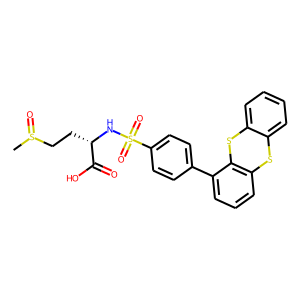
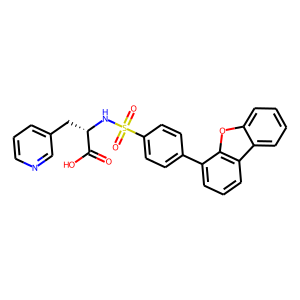
Chosen molecule is displayed in EndGame window

Changed region(s): [[0.03, 0.3, 0.96, 0.69]]

diff --git a/game_scripts/end_game.py b/game_scripts/end_game.py
@@ -4,8 +4,8 @@ from game_scripts.combine import MolChoose
 from game_scripts.descriptors import get_descriptors
 from game_scripts.filters import compound_check
 from rdkit import Chem
+from rdkit.Chem.Draw import rdMolDraw2D
 import global_vars
-
 
 """
 Window for ending the game - displays a comparison of chosen molecule vs final target molecule
@@ -16,21 +16,70 @@ SCREEN_WIDTH = 1000
 SCREEN_HEIGHT = 650
 SCREEN_TITLE = "The Final Selection"
 
+CARD_WIDTH = 250
+CARD_HEIGHT = 400
+MAT_WIDTH = 250
+MAT_HEIGHT = 650
+
+
 class EndGame(arcade.View):
     """
     Main class for endgame view
     """
 
-    def __init__(self, feedback_view = None):
+    def __init__(self, analysis_view = None):
         #call the parent class and set up the window
         super().__init__()
-        self.feedback_view = feedback_view
+        self.analysis_view = analysis_view
+        self.button_list = None
+        self.card_list = None
+        self.mat_list = None
+        self.chosen_sprite = None
 
         # stores the path to the font file
         self.font = os.path.join('fonts', 'arial.ttf')
 
         # sets the background color
-        arcade.set_background_color(arcade.color.OXFORD_BLUE)
+        arcade.set_background_color(arcade.color.WHITE)
+
+        self.setup()
+
+    def setup(self):
+        """
+        This function sets up the view
+        """
+
+         # create end button
+        self.button_list = arcade.SpriteList()
+        end_button = arcade.Sprite(f'Images/button_pngs/end_game_blue.png', 0.5)
+        end_button.position = SCREEN_WIDTH/2 , 50
+        end_button.name = 'end'
+        self.button_list.append(end_button)
+
+        #Create the placeholders for the two 'card mats'
+        self.mat_list = arcade.SpriteList()
+
+        left_mat = arcade.SpriteSolidColor(CARD_WIDTH, CARD_HEIGHT, arcade.color.LIGHT_BLUE)
+        left_mat.position = 350, 400
+        self.mat_list.append(left_mat)
+
+        right_mat = arcade.SpriteSolidColor(CARD_WIDTH, CARD_HEIGHT, arcade.color.LIGHT_BLUE)
+        right_mat.position = 650, 400
+        self.mat_list.append(right_mat)
+
+        #Generate image of the selected final molecule
+        self.card_list = arcade.SpriteList()
+        mol_info = MolChoose(self.analysis_view.mol_choice[0], self.analysis_view.mol_choice[1], DataSource=os.path.join('data', 'r_group_decomp.csv')).reset_index(drop=True)
+        mol = Chem.MolFromSmiles(mol_info.at[0, 'mol'])
+        d = rdMolDraw2D.MolDraw2DCairo(250, 200)
+        d.drawOptions().addStereoAnnotation = True
+        d.drawOptions().clearBackground = False
+        d.DrawMolecule(mol)
+        d.FinishDrawing()
+        d.WriteDrawingText('Images/game_loop_images/final_mol.png')
+        self.chosen_sprite = arcade.Sprite('Images/game_loop_images/final_mol.png')
+        self.chosen_sprite.position = (350, 520)
+        self.card_list.append(self.chosen_sprite)
 
     def on_draw(self):
         """Render the screen"""
@@ -38,13 +87,25 @@ class EndGame(arcade.View):
         # clear the screen to the background colour
         arcade.start_render()
 
-        # draw the chosen molecule section
-        arcade.draw_rectangle_filled((SCREEN_WIDTH - (SCREEN_WIDTH / 6)),
-                                     (SCREEN_HEIGHT - (4 / 5 * SCREEN_HEIGHT) / 2),
-                                     (SCREEN_WIDTH / 3),
-                                     (4 / 5 * SCREEN_HEIGHT),
-                                     color=arcade.color.BLACK)
+        self.button_list.draw()
 
+        #draw the 'card mats'
+        self.mat_list.draw()
+        self.card_list.draw()
+
+    def on_mouse_press(self, x, y, button, modifiers):
+        """
+        Called when the user presses a mouse button. Used for determining what happens
+        when the user clicks on a button
+        """
+
+        #Checks to see if the End button has been pressed
+        clicked = arcade.get_sprites_at_point((x,y), self.button_list)
+        if len(clicked) > 0:
+            if clicked[0].name == 'end':
+                self.window.close()
+        
+        
 
 def main():
     """ Main method """
